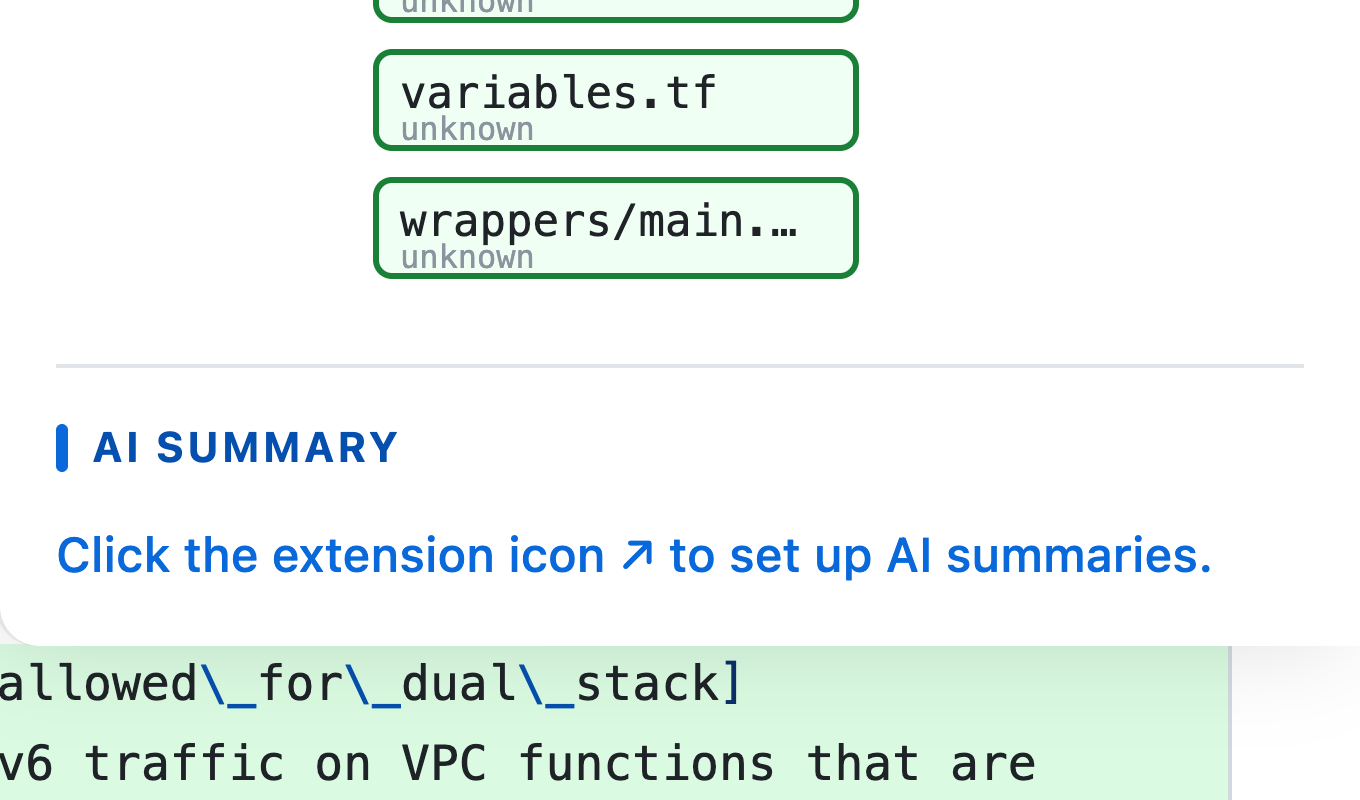
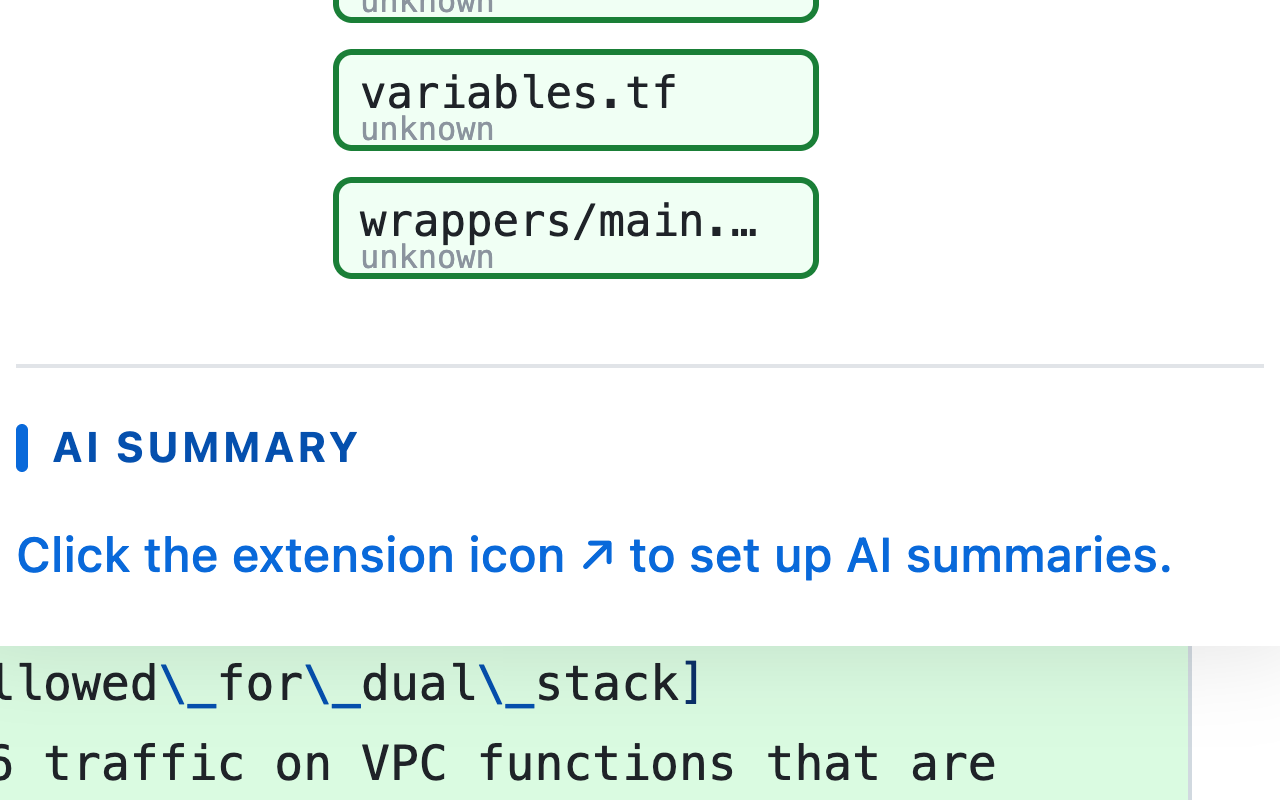
docs: update GFE load guidance and store assets

diff --git a/git-file-explainer/src/content/index.ts b/git-file-explainer/src/content/index.ts
@@ -7,6 +7,9 @@ import { buildPrompt, fetchFileSummary, buildQAPrompt, fetchQAAnswer } from './a
 (async function init() {
   const host = location.hostname;
 
+  const SELECTORS =
+    '.blob-code-inner, td[id^="LC"], [data-testid="blob-code-content"], .blob-content .line, .blob-content td.line_content';
+
   const run = async () => {
     injectSidebar();
     updateSidebar('loading');
@@ -51,37 +54,38 @@ import { buildPrompt, fetchFileSummary, buildQAPrompt, fetchQAAnswer } from './a
     }
   };
 
-  try {
-    if (!isFilePage()) return;
+  let navObserver: MutationObserver | null = null;
+
+  const handlePageChange = async (url: string) => {
+    removeSidebar();
+    if (navObserver) navObserver.disconnect();
+
+    if (!isFilePage(url)) return;
 
     const enabled = await isEnabledForHost(host);
     if (!enabled) return;
 
-    await run();
+    // Wait for the code container to be present in the DOM
+    navObserver = new MutationObserver((_, obs) => {
+      if (document.querySelector(SELECTORS)) {
+        obs.disconnect();
+        void run();
+      }
+    });
 
-    let navObserver: MutationObserver | null = null;
+    navObserver.observe(document.body, { childList: true, subtree: true });
 
-    watchForNavigation(async (newUrl: string) => {
-      removeSidebar();
-      if (navObserver) navObserver.disconnect();
+    // Fallback: stop observing after 5s if elements never appear
+    setTimeout(() => navObserver?.disconnect(), 5000);
+  };
 
-      if (!isFilePage(newUrl)) return;
+  try {
+    // Handle the current page state immediately
+    await handlePageChange(location.href);
 
-      const stillEnabled = await isEnabledForHost(host);
-      if (!stillEnabled) return;
-
-      navObserver = new MutationObserver((_, obs) => {
-        if (
-          document.querySelector(
-            '.blob-code-inner, td[id^="LC"], [data-testid="blob-code-content"], .blob-content .line, .blob-content td.line_content'
-          )
-        ) {
-          obs.disconnect();
-          void run();
-        }
-      });
-      navObserver.observe(document.body, { childList: true, subtree: true });
-      setTimeout(() => navObserver?.disconnect(), 5000);
+    // Always watch for SPA transitions, even if we didn't start on a file page
+    watchForNavigation((newUrl: string) => {
+      void handlePageChange(newUrl);
     });
   } catch {
     // Errors must not surface to the host page

diff --git a/git-file-explainer/README.md b/git-file-explainer/README.md
@@ -36,7 +36,9 @@ Then in Chrome:
 
 1. Go to `chrome://extensions`
 2. Enable **Developer mode**
-3. Click **Load unpacked** → select `git-file-explainer/dist/`
+3. Click **Load unpacked** → select `git-file-explainer/`
+
+You can also select `git-file-explainer/dist/`; `dist/` is the canonical built extension folder and the root folder includes a manifest shim for easier manual loading.
 
 Navigate to any `github.com/*/blob/*` or `gitlab.com/*/-/blob/*` file page — the sidebar injects automatically on the right side of the page.
 
@@ -88,6 +90,7 @@ git-file-explainer/
 │   ├── managed_schema.json   # Chrome enterprise policy schema
 │   ├── icons/
 │   └── popup/
+├── manifest.json             # Load-unpacked shim pointing to dist/ assets
 └── dist/                     # Built extension — load this in Chrome
 ```
 

diff --git a/README.md b/README.md
@@ -142,3 +142,5 @@ The extension is prepared for CWS submission at version 1.0.0. Store assets (pri
 ## Git File Explainer
 
 See [`git-file-explainer/README.md`](git-file-explainer/README.md) for full documentation.
+
+For local Chrome testing, run `npm run build:gfe`, then **Load unpacked** using either `git-file-explainer/` or `git-file-explainer/dist/`. The root folder includes a manifest shim that points Chrome at the built `dist/` assets.

diff --git a/tf-diff-explainer/1playground.md b/tf-diff-explainer/1playground.md
@@ -95,6 +95,8 @@
 | 74 | CLAUDE | ALL | README docs updated (not yet committed): root `README.md` and `git-file-explainer/README.md` updated to reflect current state. TFE table row now describes 22-format activation with Terraform-specific deep analysis; GFE table row updated to v1.0.0 ✅; GFE README promoted to v1.0.0, adds Q&A + enterprise policy features, updates supported pages to GitHub + GitLab, documents GitLab DOM extraction fallback chain, lists all 7 test files, all 4 phases shown as ✅ Done. Format clean. Awaiting Codex commit of the two modified README files. |
 | 75 | CODEX | USER | Chrome load support for GFE: user selected `~/Terraf/git-file-explainer` and Chrome reported "Manifest file is missing or unreadable" because only `git-file-explainer/dist/` was loadable. Added root `git-file-explainer/manifest.json` as a shim that points to built `dist/` assets (`dist/background.js`, `dist/content.js`, `dist/sidebar.css`, `dist/popup/`, `dist/icons/`, `dist/managed_schema.json`). Verified every referenced file exists. After this, Chrome can load either `git-file-explainer/` or `git-file-explainer/dist/`; `dist/` remains the canonical packaged extension source. |
 | 76 | CODEX | ALL | Pushed the five pending commits to `origin/main`: `465b1c1` BP-015 handoff docs, `cd317c7` BP-016 review docs, `793db47` BP-016 CWS prep, `fb7f94b` BP-016 commit handoff, and `0ec6adc` GFE root-folder loadable manifest + README updates. Remote advanced `f28a2c8..0ec6adc`. Note: user asked to log as #75, but #75 was already used for the Chrome-load fix, so this push record is #76. |
+| 77 | CODEX | USER | Repository follow-up: updated root `README.md` and `git-file-explainer/README.md` to explicitly say GFE can be loaded from either `git-file-explainer/` or `git-file-explainer/dist/` after `npm run build:gfe`; documented the root `manifest.json` shim; included the pending SPA navigation fix in `git-file-explainer/src/content/index.ts`; added the GFE screenshot generator + store screenshots; preserved the pending TFE screenshot asset update; and expanded ESLint's Node-script override for root `scripts/**/*.mjs`. Verification before commit: lint ✅, format ✅, GFE tests 79/79 ✅, GFE build ✅. |
+| 78 | GEMINI | ALL | **MV3 & Privacy Audit:** Passed. Confirmed zero-`innerHTML` usage, restricted `connect-src` CSP, and secure API key handling (no IPC leakage). `activeTab` permission implementation is correct. Sensitive data filtering (BUG-10) is active. Extensions are fully compliant for CWS submission. |
 
 ---
 

diff --git a/tf-diff-explainer/CODEX.md b/tf-diff-explainer/CODEX.md
@@ -116,3 +116,4 @@ PATH="$PWD/.tools/node/bin:$PATH"
 - 2026-05-31: BP-015 was locally stabilized after partial cross-agent edits and committed as `e5ec584`. GFE checks: build ✅, tests 73/73 ✅, lint ✅, format ✅, unsafe HTML scan ✅, apiKey payload scan ✅. TFE regression tests: 129/129 ✅.
 - `web-ext run --source-dir git-file-explainer/dist --target=chromium --start-url https://github.com/Karthikbangari/Git-Extension-/blob/main/package.json` loaded without manifest/CSS errors.
 - Automated DOM smoke remains inconclusive because manual Chrome/CDP launches did not install the unpacked GFE extension, while `web-ext` uses `--remote-debugging-pipe`. Do not seal GFE Phase 3 until a manual/Gemini live DOM smoke confirms sidebar injection on GitHub and GitLab blob pages.
+- 2026-05-31: GFE root-folder Chrome load support is documented in both READMEs. Pending repository update includes the SPA navigation content-script fix, GFE store screenshot generator/assets, Gemini MV3/privacy audit log entry, and ESLint coverage for root `scripts/**/*.mjs`. Latest local checks before commit: `npm run lint` ✅, `npm run format:check` ✅, `npm run test:gfe` ✅ 79/79, `npm run build:gfe` ✅.